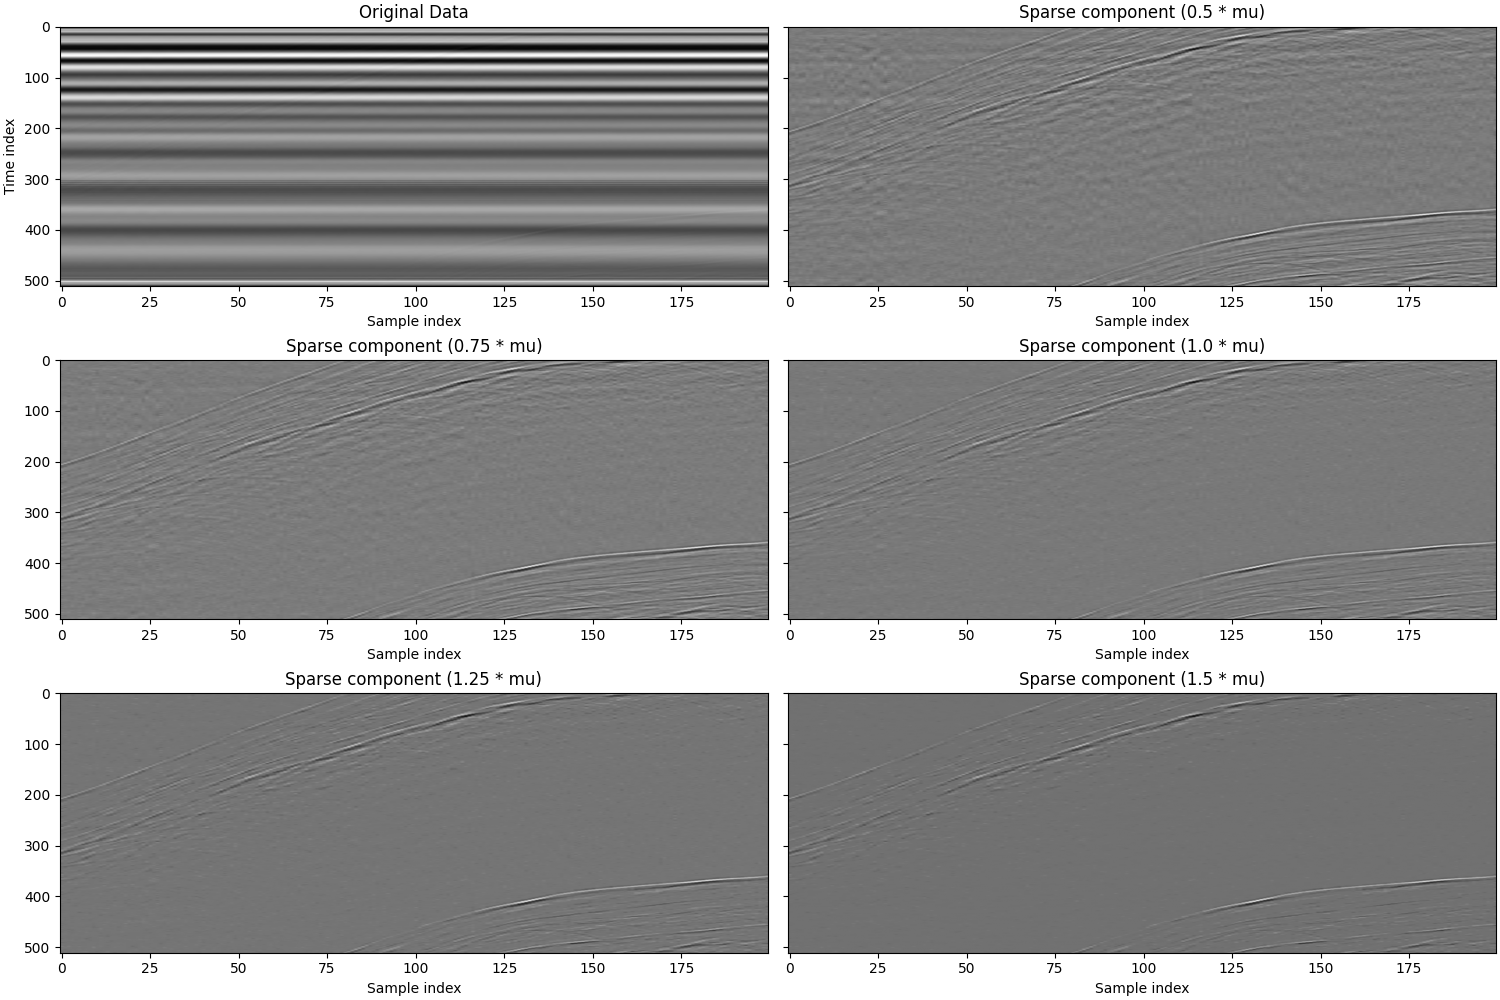
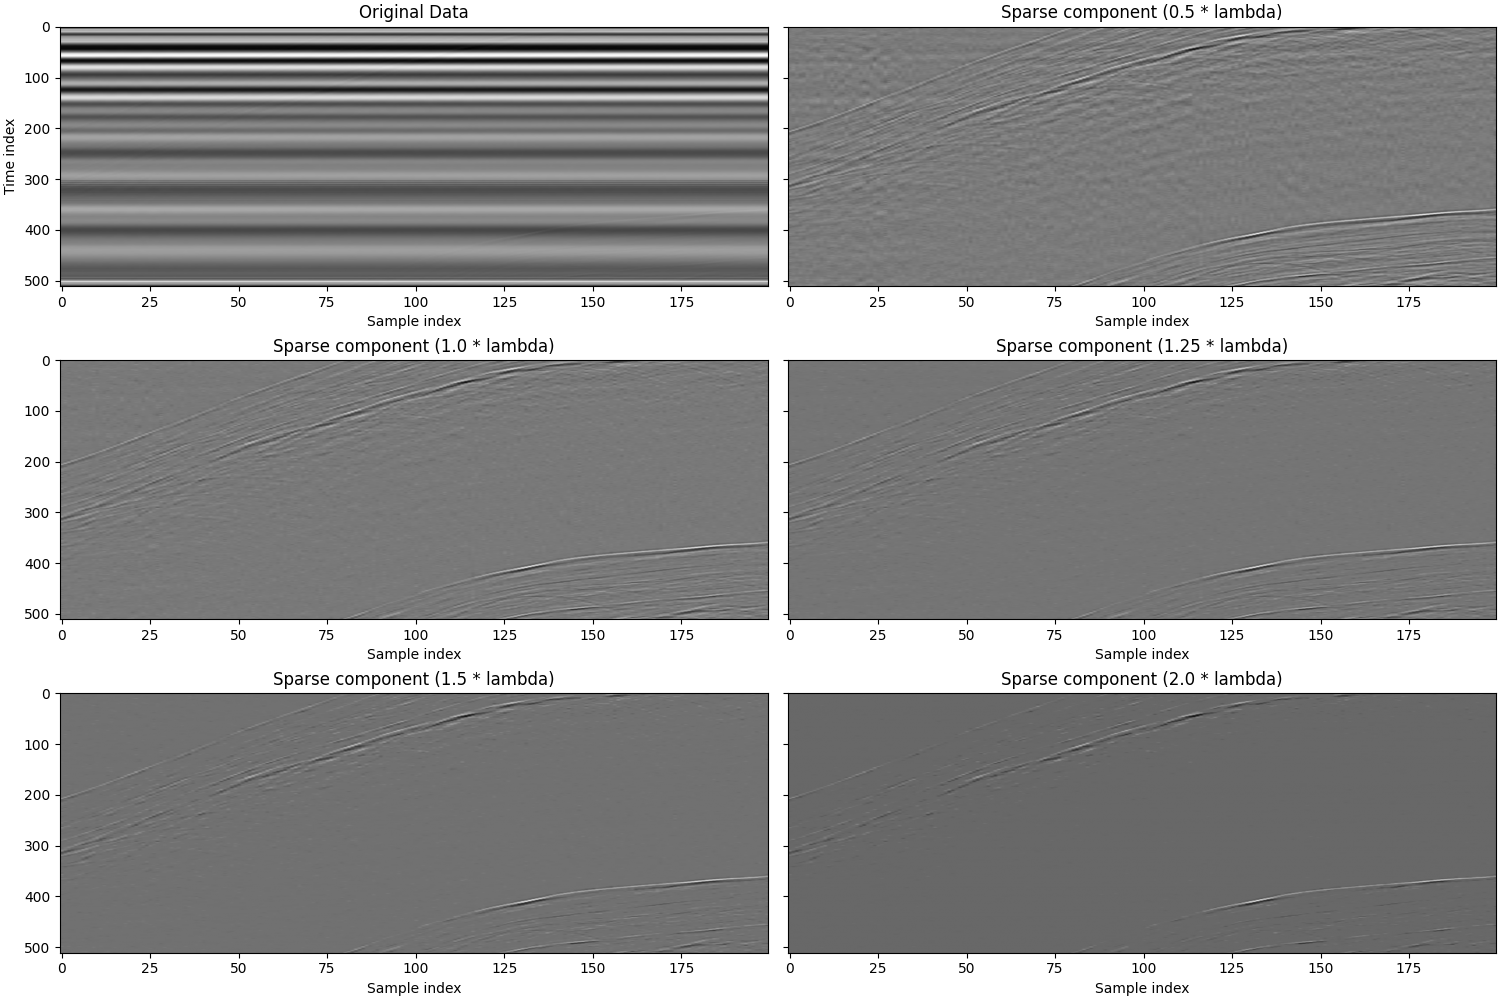
almost done

diff --git a/denoise_rpca.py b/denoise_rpca.py
@@ -12,15 +12,15 @@ import os
 data = np.load("data/data.npy")
 
 results = {}
-mu = 1.0 / np.sqrt(max(data.shape))
-for mu_factor in [0.5, 0.75, 1.0, 1.25, 1.5]:
-    print(f"RPCA for mu factor = {mu_factor}")
+lmbda = 1.0 / np.sqrt(max(data.shape))
+for lmbda_factor in [0.5, 1.0, 1.25, 1.5, 2.0]:
+    print(f"RPCA for lmbda factor = {lmbda_factor}")
     low_rank, sparse = rpca_pcp_ialm(
         data,
-        sparsity_factor=mu_factor * mu,
+        sparsity_factor=lmbda_factor * lmbda,
     )
-    results[f"l_muf{mu_factor}"] = low_rank
-    results[f"s_muf{mu_factor}"] = sparse
+    results[f"l_lmbdaf{lmbda_factor}"] = low_rank
+    results[f"s_lmbdaf{lmbda_factor}"] = sparse
 
 if not os.path.exists("results"):
     os.makedirs("results")

diff --git a/plot_rpca_results.py b/plot_rpca_results.py
@@ -15,9 +15,11 @@ axes[0][0].set_xlabel("Sample index")
 axes[0][0].set_ylabel("Time index")
 
 # sparse components (hidden signal)
-for ax, mu_factor in zip(axes.flatten()[1:], [0.5, 0.75, 1.0, 1.25, 1.5], strict=True):
-    ax.imshow(results[f"s_muf{mu_factor}"], aspect="auto", cmap="gray")
-    ax.set_title(f"Sparse component ({mu_factor} * mu)")
+for ax, lmbda_factor in zip(
+    axes.flatten()[1:], [0.5, 1.0, 1.25, 1.5, 2.0], strict=True
+):
+    ax.imshow(results[f"s_lmbdaf{lmbda_factor}"], aspect="auto", cmap="gray")
+    ax.set_title(f"Sparse component ({lmbda_factor} * lambda)")
     ax.set_xlabel("Sample index")
 
 plt.savefig("rpca_result.png")

diff --git a/README.md b/README.md
@@ -33,11 +33,24 @@ The current method used at the Norwegian Meteorological Institute is to apply pr
 This look better than simply subtracting the noise. The result is even tunable with the number of principal components dropped. However, noise still remains, and dropping too many components starts degrading the signal, instead of removing more noise.
 
 ## Mathod 3: Robust princical component analysis
-TODO RPCA
+The latent signal we are dealing with is small compared to the noise. This mean we have to extract it using different features than magnitude. From the previous two methods we conclude than the noise is regular and spread throughout the complete picture. The latent signal, however, differs quite a lot between each sample. Additionally, it only encompasses a small part of the image (we call this sparse).
+
+In recent years a new technique has become popular, called Robust Principal Component Analysis (RPCA). This algorithm seperates a matrix in two parts: one is sparse (many entries are zero) and one is low-rank (rows are highly correlated; there is a lot of linear structure). Our noise is clearly low-rank, as our linear methods of mean subtraction and PCA already work quite well. The latent signal is also quite sparse, as can be seen from our preliminary results. This makes our problem a perfect target for RPCA.
+
+RPCA is actually only the description of the matrix seperation problem to solve and multiple algorithms exist to find or approximate solutions. I implemented a simple Python package for RPCA[[3]](#stuurmanpyrpca). See its repository for algorithmic details. There is no need to understand this level of detail, but for those interested, in this project I used the PCP convex relaxation solved by IALM.
+
+There is only a single important parameter for RPCA, called 'lambda'. It determines the important of sparsity compared to low-rankness. I explored multiple values of lambda in the script 'denoise_rpca.py', the results of which can be seen below.
 
 ![RPCA result](rpca_result.png)
+
+I think RPCA extracts the underlying signal extremely well. It is easily tuned by a single parameter, which also has obvious results. Lower values permit more noise, and higher values demand high sparsity, which is a clear and visible trade-off. The only downside of RPCA is that it is an optimization problem, which means it can sometimes take quite some time to run. However, in this case the matrix is quite small and the program runs fast. There are also various methods of improving performance, such as running it on seperate parts of the data (even in parallel), as well as various other optimization methods than or improved version of IALM.
+
+## Conclusion
+* RPCA works great for this use case.
+* Although it can be slow, this can often be circumvented by various technioques.
+* Think about it the next time your data is noisy.
 
 ## References
 1. <a name="jenssen2023"></a> [R.-O. R. Jenssen. Snow depth from UAV GPR. Norwegian Meteorological Institute (2023).](https://doi.org/10.21343/ZAW8-2G80) Raw, unprocessed data was used, not publicly published. Data here is closest available dataset. Data in repository is small subset used as example.
 2. <a name="candes2011"></a> [Emmanuel J. Candès, Xiaodong Li, Yi Ma, John Wright. Robust principal component analysis? Association for Computing Machinery 2011.](https://doi.org/10.1145/1970392.1970395) (preprint on [arXiv](https://doi.org/10.48550/arXiv.0912.3599))
-3. <a name="candes2011"></a> [A. C. Stuurman (me). github.com/surgura/PyRPCA v1.0.0, Robust PCA for Python.](https://github.com/surgura/PyRPCA)
+3. <a name="stuurmanpyrpca"></a> [A. C. Stuurman (me). github.com/surgura/PyRPCA v1.0.0, Robust PCA for Python.](https://github.com/surgura/PyRPCA)
